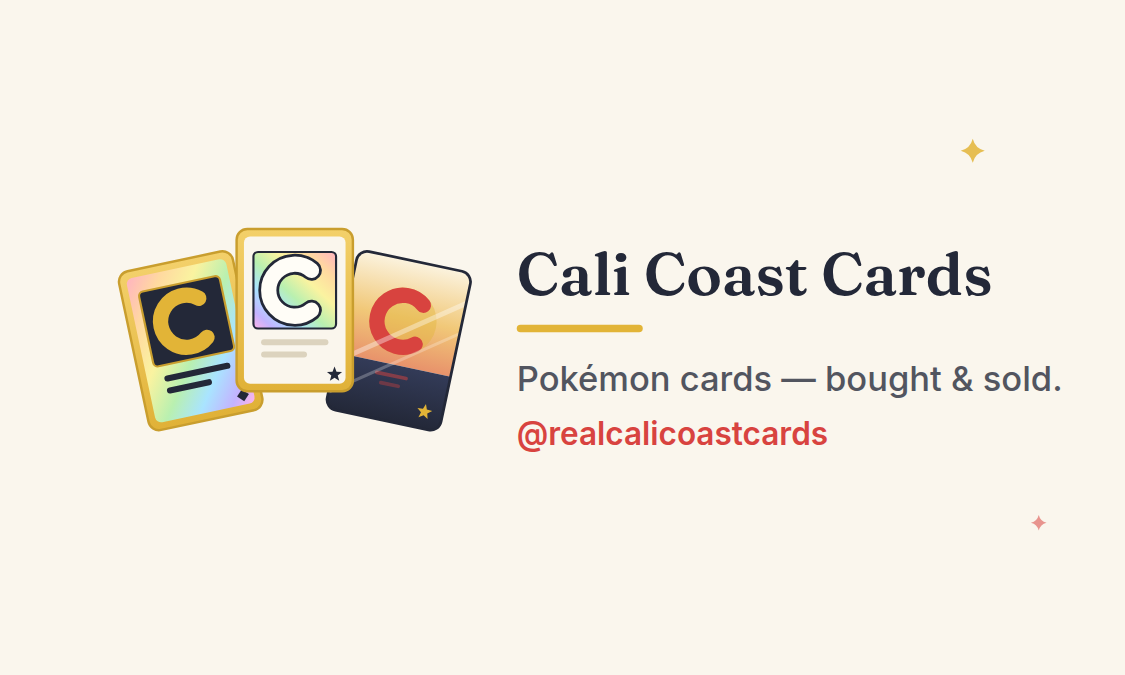
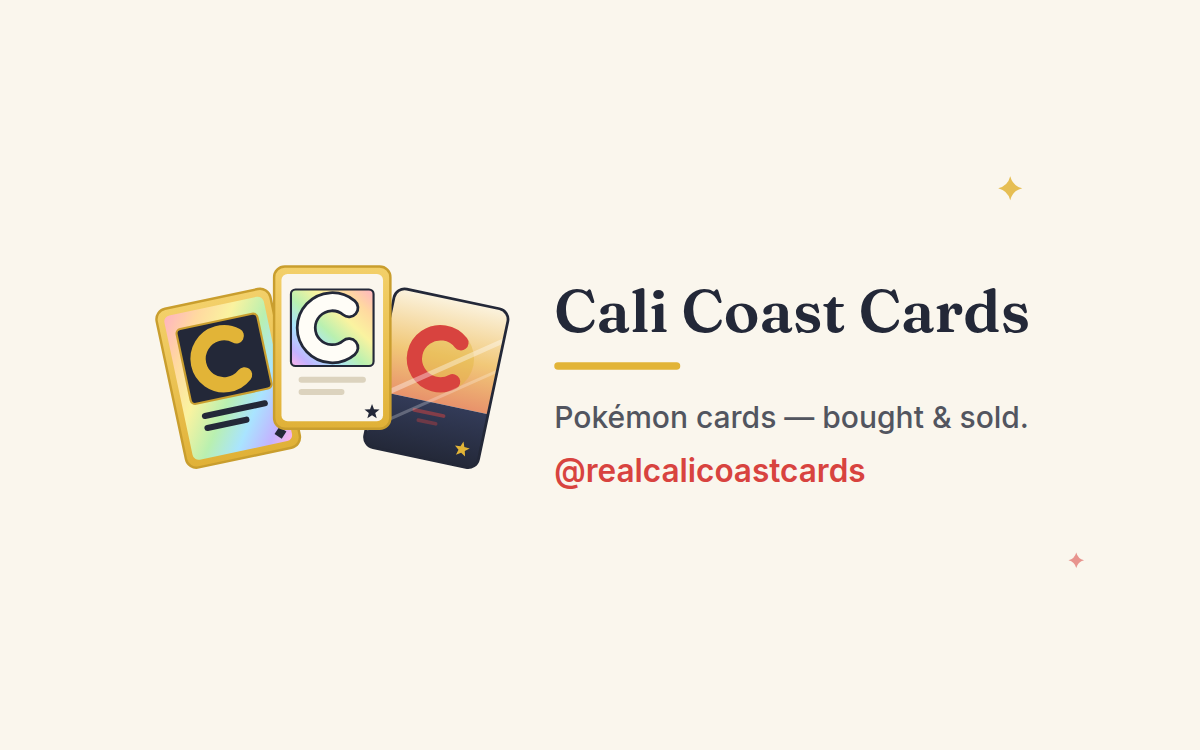
Give business cards 1/4 inch bleed and keep text inside safe area
Canvas is now 4x2.5in (1200x750 at 300 dpi) around the 3.5x2in trim.
The front tagline was reaching the trim line; reduced so all text
measures at least 1/8in inside it (verified via rendered bounding
boxes).

Claude-Session: https://claude.ai/code/session_011qhPkhG6ZK8KHXgo3yVg1U

diff --git a/tools/build-cards.js b/tools/build-cards.js
@@ -107,24 +107,24 @@ const defs = `
     <clipPath id="rc"><rect x="-19" y="-26.5" width="38" height="53" rx="3.5"/></clipPath>
   </defs>`;
 
-/* ---- FRONT: 3.75 x 2.25 in (trim 3.5 x 2 + 1/8" bleed per side), 100 units/in ---- */
-const front = `<svg xmlns="http://www.w3.org/2000/svg" width="3.75in" height="2.25in" viewBox="-6.25 -6.25 375 225">
-  <!-- Cali Coast Cards business card FRONT. Trim 3.5x2in; 0.125in bleed each side. -->
+/* ---- FRONT: 4.0 x 2.5 in (trim 3.5 x 2 + 1/4" bleed per side), 100 units/in ---- */
+const front = `<svg xmlns="http://www.w3.org/2000/svg" width="4in" height="2.5in" viewBox="-18.75 -18.75 400 250">
+  <!-- Cali Coast Cards business card FRONT. Trim 3.5x2in; 0.25in bleed each side. -->
   ${defs}
-  <rect x="-6.25" y="-6.25" width="375" height="225" fill="${CREAM}"/>
+  <rect x="-18.75" y="-18.75" width="400" height="250" fill="${CREAM}"/>
   ${sparkle(318, 44, 4, GOLD, 0.85)}
   ${sparkle(340, 168, 2.6, RED, 0.55)}
   ${fan(92, 106, 1.02)}
   <text x="166" y="92" font-family="Fraunces" font-weight="600" font-size="20" fill="${NAVY}">Cali Coast Cards</text>
   <rect x="166" y="102" width="42" height="2.5" rx="1.25" fill="${GOLD}"/>
-  <text x="166" y="124" font-family="Inter" font-weight="500" font-size="11.5" fill="${NAVY}" opacity="0.78">Pokémon cards — bought &amp; sold.</text>
+  <text x="166" y="124" font-family="Inter" font-weight="500" font-size="10" fill="${NAVY}" opacity="0.78">Pokémon cards — bought &amp; sold.</text>
   <text x="166" y="142" font-family="Inter" font-weight="600" font-size="10.5" fill="${RED}">@realcalicoastcards</text>
 </svg>`;
 
 /* ---- BACK ---- */
-const back = `<svg xmlns="http://www.w3.org/2000/svg" width="3.75in" height="2.25in" viewBox="-6.25 -6.25 375 225">
+const back = `<svg xmlns="http://www.w3.org/2000/svg" width="4in" height="2.5in" viewBox="-18.75 -18.75 400 250">
   <!-- Cali Coast Cards business card BACK. QR -> ${URL} -->
-  <rect x="-6.25" y="-6.25" width="375" height="225" fill="${NAVY}"/>
+  <rect x="-18.75" y="-18.75" width="400" height="250" fill="${NAVY}"/>
   ${sparkle(38, 36, 3.2, GOLD, 0.9)}
   ${sparkle(182, 26, 2, "#FAF6ED", 0.7)}
   ${sparkle(152, 186, 2.4, GOLD, 0.6)}

diff --git a/tools/render-cards.js b/tools/render-cards.js
@@ -9,8 +9,8 @@ const SCRATCH = require("os").tmpdir();
 const REPO = require("path").resolve(__dirname, "..");
 
 const ASSETS = [
-  { svg: "print/business-cards/card-front.svg", png: "print/business-cards/card-front.png", w: 1125, h: 675, qr: false },
-  { svg: "print/business-cards/card-back.svg", png: "print/business-cards/card-back.png", w: 1125, h: 675, qr: true },
+  { svg: "print/business-cards/card-front.svg", png: "print/business-cards/card-front.png", w: 1200, h: 750, qr: false },
+  { svg: "print/business-cards/card-back.svg", png: "print/business-cards/card-back.png", w: 1200, h: 750, qr: true },
   { svg: "print/signs/instagram-qr-sign.svg", png: "print/signs/instagram-qr-sign.png", w: 2550, h: 3300, qr: true },
   { svg: "art/qr-instagram.svg", png: "art/qr-instagram.png", w: 1000, h: 1000, qr: true },
 ];

diff --git a/print/business-cards/README.md b/print/business-cards/README.md
@@ -15,10 +15,10 @@ decode correctly at print resolution.
 
 ## Specs (already baked in)
 
-- Trim size **3.5" × 2"** (US standard), files are **3.75" × 2.25"** with
-  1/8" bleed on each side — backgrounds run to the edge, text stays in the
+- Trim size **3.5" × 2"** (US standard), files are **4" × 2.5"** with
+  1/4" bleed on each side — backgrounds run to the edge, text stays in the
   safe zone.
-- PNGs are **300 dpi** (1125 × 675). Most printers accept PNG directly.
+- PNGs are **300 dpi** (1200 × 750). Most printers accept PNG directly.
 - QR is error-correction **H** (30% redundancy — survives the logo overlay
   and light print wear). Verified with a decoder before every reorder is a
   good habit: `node tools/render-cards.js` re-checks automatically.
